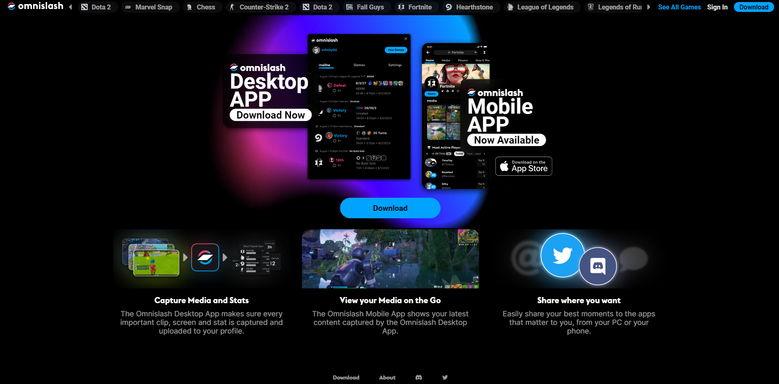
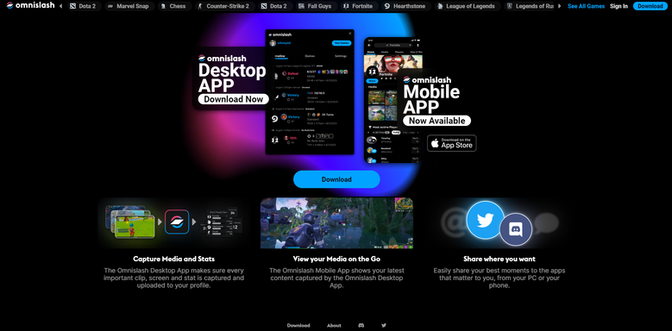
Added dark/light mode, added pinia to save persisted state of darkmode.

diff --git a/pages/index.vue b/pages/index.vue
@@ -1,38 +1,41 @@
 <template>
-  <Header @scrollToSection="scrollToSection" />
+  <div :class="{'dark': darkMode}">
+    <div class="bg-dim-100 text-primary dark:bg-dim-950 dark:text-darkPrimary transition-main">
+      <Header @scrollToSection="scrollToSection" />
 
-  <Head>
-    <Title>Dev - Solomon Padilla</Title>
-    <Meta name="viewport" content="width=device-width, initial-scale=1, shrink-to-fit=no" />
-    <Meta name="description" content="Phoenix-Based Full Stack Web Developer." />
-    <Meta name="keywords" content="Phoenix, Scottsdale, Peoria, Glendale, Full Stack Developer, Front-End Web Developer, Back-End Developer, Solomon Padilla, Django, Python, JavaScript, HTML5, HTML, CSS3, CSS, MySQL, Vue, VueJS, TailWind, Nuxt, NuxtJS" />
-    <link rel="icon" href="/favicon.ico" type="image/x-icon" />
-  </Head>
+      <Head>
+        <Title>Dev - Solomon Padilla</Title>
+        <Meta name="viewport" content="width=device-width, initial-scale=1, shrink-to-fit=no" />
+        <Meta name="description" content="Phoenix-Based Full Stack Web Developer." />
+        <Meta name="keywords" content="Phoenix, Scottsdale, Peoria, Glendale, Full Stack Developer, Front-End Web Developer, Back-End Developer, Solomon Padilla, Django, Python, JavaScript, HTML5, HTML, CSS3, CSS, MySQL, Vue, VueJS, TailWind, Nuxt, NuxtJS" />
+        <link rel="icon" href="/favicon.ico" type="image/x-icon" />
+      </Head>
 
-  <main>
-    <section>
-      <LazySectionHome />
-    </section>
-    <section>
-      <LazySectionMccStats v-if="loadComponents" />
-    </section>
-    <section>
-      <LazySectionOmnislash v-if="loadComponents" />
-    </section>
-    <section>
-      <LazySectionContact v-if="loadComponents" />
-    </section>
+      <main>
+        <section>
+          <LazySectionHome />
+        </section>
+        <section>
+          <LazySectionMccStats v-if="loadComponents" />
+        </section>
+        <section>
+          <LazySectionOmnislash v-if="loadComponents" />
+        </section>
+        <section>
+          <LazySectionContact v-if="loadComponents" />
+        </section>
 
-    <div class="fixed right-0 bottom-20 rotate-[-90deg] select-none text-dim-400 transition-all duration-150 ease-out hover:text-dim-200 max-sm:right-[-20px]">
-      <span v-if="activeSection < offsets.length - 1" class="p-1 cursor-pointer" @click="scrollToSection(activeSection + 1, true)">
-        <Icon name="grommet-icons:form-previous" /> Scroll Down
-      </span>
-      <span v-else class="p-1 cursor-pointer" @click="scrollToSection(0, true)">
-        Scroll To Top <Icon name="grommet-icons:form-next" />
-      </span>
+        <div class="fixed right-0 bottom-20 rotate-[-90deg] select-none transition-main text-dim-700 hover:text-dim-950 dark:text-dim-400 dark:hover:text-dim-200 max-sm:right-[-20px]">
+          <span v-if="activeSection < offsets.length - 1" class="p-1 cursor-pointer" @click="scrollToSection(activeSection + 1, true)">
+            <Icon name="grommet-icons:form-previous" /> Scroll Down
+          </span>
+          <span v-else class="p-1 cursor-pointer" @click="scrollToSection(0, true)">
+            Scroll To Top <Icon name="grommet-icons:form-next" />
+          </span>
+        </div>
+      </main>
     </div>
-  </main>
-
+  </div>
 </template>
 
 <style>
@@ -46,7 +49,8 @@ section {
 </style>
 
 <script setup>
-const darkMode = ref(true)
+const store = useStore()
+let darkMode = computed(() => store.darkMode)
 let inMove = false
 const moveDelay = 400
 let activeSection = ref(0)
@@ -75,6 +79,14 @@ onBeforeUnmount(() => {
   window.removeEventListener('touchstart', touchStart); // mobile devices
   window.removeEventListener('touchmove', touchMove); // mobile devices
 })
+
+
+ /**
+ * Toggles dark/light theme
+ */
+function toggleDarkMode() {
+  darkMode.value = !darkMode.value
+}
 
  /**
  * Calculates the absolute offsets of each section on the page and pushes it into the offsets array

diff --git a/components/Section/MccStats.vue b/components/Section/MccStats.vue
@@ -1,5 +1,5 @@
 <template>
-  <div class="relative font-raj overflow-hidden max-w-full">
+  <div class="relative font-raj overflow-hidden max-w-full text-darkPrimary">
     <div class="absolute z-10 w-full text-xs font-bold bg-[#070707] p-0.5">
       <nuxt-link to="https://www.mccstats.site/" target="_blank" rel="noopener noreferrer">MCC<span class="text-[#00ff66]">STATS</span></nuxt-link>
     </div>
@@ -8,28 +8,28 @@
       <p class="text-[9px] font-roboto mb-1.5">Stats & Leaderboards for Halo MCC</p>
 
       <div class="flex items-center bg-white text-[10px]">
-        <span class="text-[#a1a1a1] text-[9px] hover:text-[#6c6c6c] p-1.5 cursor-pointer transition-all duration-150 ease-out">
+        <span class="text-[#a1a1a1] text-[9px] hover:text-[#6c6c6c] p-1.5 cursor-pointer transition-main">
           <Icon name="fa-solid:search" />
         </span>
         <input v-model="mccStatsText" class="h-[26px] w-36 font-raj bg-transparent outline-none font-bold text-[#343434] placeholder-[#a1a1a1]" placeholder="Search" @keyup.enter="navigateToExternal('https://www.mccstats.site/profile/' + mccStatsText)">
 
-        <button class="bg-[#008400] text-white w-8 h-4 font-bold text-[8px] mr-1.5 transition-all duration-150 ease-out hover:brightness-110" @click="navigateToExternal('https://www.mccstats.site/profile/' + mccStatsText)">Enter</button>
+        <button class="bg-[#008400] text-white w-8 h-4 font-bold text-[8px] mr-1.5 transition-main hover:brightness-110" @click="navigateToExternal('https://www.mccstats.site/profile/' + mccStatsText)">Enter</button>
       </div>
 
       <div class="flex items-center">
-        <nuxt-link to="https://www.mccstats.site/leaderboards/most-50s" target="_blank" rel="noopener noreferrer" class="text-[#ffd700] p-1 transition-all duration-150 ease-out hover:brightness-125" aria-label="Mccstats Leaderboards">
+        <nuxt-link to="https://www.mccstats.site/leaderboards/most-50s" target="_blank" rel="noopener noreferrer" class="text-[#ffd700] p-1 transition-main hover:brightness-125" aria-label="Mccstats Leaderboards">
           <Icon name="fa-solid:trophy" />
         </nuxt-link>
 
-        <nuxt-link to="https://www.mccstats.site/donate" target="_blank" rel="noopener noreferrer" class="text-[#29df27] p-1 transition-all duration-150 ease-out hover:brightness-125" aria-label="Mccstats Donate Page">
+        <nuxt-link to="https://www.mccstats.site/donate" target="_blank" rel="noopener noreferrer" class="text-[#29df27] p-1 ttransition-main hover:brightness-125" aria-label="Mccstats Donate Page">
           <Icon name="fa-solid:dollar-sign" />
         </nuxt-link>
 
-        <nuxt-link to="https://discord.com/" target="_blank" rel="noopener noreferrer" class="text-[#7289da] p-1 transition-all duration-150 ease-out hover:brightness-125" aria-label="Mccstats Discord Link">
+        <nuxt-link to="https://discord.com/" target="_blank" rel="noopener noreferrer" class="text-[#7289da] p-1 transition-main hover:brightness-125" aria-label="Mccstats Discord Link">
           <Icon name="fa-brands:discord" />
         </nuxt-link>
 
-        <nuxt-link to="https://twitter.com/MccStats" target="_blank" rel="noopener noreferrer" class="text-[#1da1f2] p-1 transition-all duration-150 ease-out hover:brightness-125" aria-label="Mccstats Twitter Page">
+        <nuxt-link to="https://twitter.com/MccStats" target="_blank" rel="noopener noreferrer" class="text-[#1da1f2] p-1 transition-main hover:brightness-125" aria-label="Mccstats Twitter Page">
           <Icon name="fa-brands:twitter" />
         </nuxt-link>
       </div>

diff --git a/components/Header.vue b/components/Header.vue
@@ -1,25 +1,26 @@
 <template>
   <header class="fixed z-50 w-full flex items-center justify-between p-5 text-xl text-primary select-none">
     
-    <nuxt-link to="/" class="text-3xl text-dim-100 pt-0.5 pr-5 pb-2 pl-1 -rotate-6 tracking-tightest shadow-lg transition duration-500 ease-out" @click="scrollToSection(0, true)">
+    <nuxt-link to="/" class="text-3xl pt-0.5 pr-5 pb-2 pl-1 -rotate-6 tracking-tightest dark:text-dim-100" @click="scrollToSection(0, true)">
       <b>><span class="animate-blink">_</span></b>
     </nuxt-link>
-    
-    <ul class="flex">
-      <!-- <li @click="scrollToSection(1, true)">Work</li> -->
-      <li @click="scrollToSection(3, true)">Contact</li>
-    </ul>
+
+    <div class="relative w-[52px]">
+      <label class="absolute w-full h-[26px] cursor-pointer -top-3 left-[-10px]">
+        <input class="hidden peer" type="checkbox" name="Dark Mode" @change="toggleDarkMode" :checked="!darkMode">
+        <span class="slider absolute w-full h-full rounded-full bg-[#28292c] duration-300
+        before:content-[''] before:absolute before:top-[3px] before:left-[5px] before:duration-300 before:rounded-full before:bg-[#28292c] before:w-[20px] before:h-[20px] before:shadow-[inset_10px_-4px_0px_0px_rgba(216,219,224,1)]
+        peer-checked:bg-[#e1e1e1] peer-checked:before:bg-[#ffb364] peer-checked:before:shadow-none peer-checked:before:translate-x-6"></span>
+      </label>
+    </div>
   </header>
 </template>
 
-<style scoped>
-li {
-  @apply cursor-pointer transition duration-500 ease-out hover:text-dim-400 px-2.5;
-}
-</style>
-
 <script setup>
+const store = useStore()
 const emits = defineEmits(['scrollToSection'])
+let darkMode = computed(() => store.darkMode)
+const toggleDarkMode = store.toggleDarkMode
 
 function scrollToSection(id, force = false) {
   emits('scrollToSection', id, force)

diff --git a/tailwind.config.js b/tailwind.config.js
@@ -15,18 +15,19 @@ export default {
     },
     extend: {
       colors: {
-        primary: '#f8f8f8',
+        primary: "#0c0a09",
+        darkPrimary: "#f8f8f8",
         dim: {
-          50: "#fafafa",
-          100: "#f5f5f5",
-          200: "#e5e5e5",
-          300: "#d4d4d4",
-          400: "#a3a3a3",
-          500: "#737373",
-          600: "#525252",
-          700: "#404040",
-          800: "#262626",
-          900: "#171717",
+          50: "#fafaf9",
+          100: "#f5f5f4",
+          200: "#e7e5e4",
+          300: "#d6d3d1",
+          400: "#a8a29e",
+          500: "#78716c",
+          600: "#57534e",
+          700: "#44403c",
+          800: "#292524",
+          900: "#1c1917",
           950: "#0c0a09",
         },
       },
@@ -34,6 +35,9 @@ export default {
         sans: ['Karla', 'Arial', 'Helvetica', 'sans-serif', 'Georgia', 'serif'],
         raj: ['Rajdhani', 'Arial', 'Helvetica', 'sans-serif', 'Georgia', 'serif'],
         roboto: ['Roboto', 'Arial', 'Helvetica', 'sans-serif', 'Georgia', 'serif'],
+      },
+      transitionProperty: {
+        mainTransition: 'all 150ms ease-out'
       },
       animation: {
         glow: 'glow 1s ease-in-out infinite alternate',
@@ -56,11 +60,11 @@ export default {
           }
         },
         blink: {
-          '0%': {color: '#f8f8f8'},
-          '49%': {color: '#f8f8f8'},
+          '0%': {color: 'inherit'},
+          '49%': {color: 'inherit'},
           '60%': {color: 'transparent'},
-          '85%': {color: '#f8f8f8'},
-          '100%': {color: '#f8f8f8'}
+          '85%': {color: 'inherit'},
+          '100%': {color: 'inherit'}
         }
       }
     },

diff --git a/components/Section/Omnislash.vue b/components/Section/Omnislash.vue
@@ -1,13 +1,15 @@
 <template>
   <div class="relative font-raj">
     <nuxt-link to="https://omnislash.com/app" target="_blank" rel="noopener noreferrer">
-      <img class="max-h-96" height="384" width="779" src="/omnislash/omnislash.png" alt="Omnislash" />
+      <img height="331" width="664" src="/omnislash/omnislash.png" alt="Omnislash" />
     </nuxt-link>
   </div>
 
   <h2 class="text-[32px] my-4 font-sans font-bold">
     <nuxt-link class="flex items-center gap-1" to="https://omnislash.com/app" target="_blank" rel="noopener noreferrer">
-      <img height="19" width="20" src="/omnislash/logo.png" alt="Omnislash Logo" />
+      <div class="p-0.5 bg-black rounded">
+        <img height="19" width="20" src="/omnislash/logo.png" alt="Omnislash Logo" />
+      </div>
       <span>Omnislash</span>
     </nuxt-link>
   </h2>
@@ -18,6 +20,7 @@
     <strong>Frontend Built with:</strong> 
     <ul class="flex flex-wrap gap-2 text-center justify-center">
       <li><Icon name="devicon:vuejs" /> VueJs,</li>
+      <li><Icon name="vscode-icons:file-type-vueconfig" /> Vuex,</li>
       <li><Icon name="devicon:typescript" /> Typescript,</li>
       <li><Icon name="devicon:css3" /> SASS</li>
     </ul>

diff --git a/components/Section/Contact.vue b/components/Section/Contact.vue
@@ -3,7 +3,7 @@
     <Icon class="text-[200px] rotate-[-6deg]" name="fxemoji:backofenvelope" />
 
     <div>
-      <p class="w-[200px]">Unleash your digital vision. Let's collaborate and bring your ideas to life.</p>
+      <p class="w-[200px]">Unleash your digital vision.</p>
     </div>
   </div>
 
@@ -14,6 +14,7 @@
     <ul class="flex flex-wrap gap-2 text-center justify-center">
       <li><Icon name="devicon:vuejs" /> VueJs,</li>
       <li><Icon name="logos:nuxt-icon" /> Nuxt,</li>
+      <li><Icon name="logos:pinia" /> Pinia,</li>
       <li><Icon name="logos:javascript" /> Javascript,</li>
       <li><Icon name="devicon:tailwindcss" /> TailWind</li>
     </ul>

diff --git a/components/UI/Button.vue b/components/UI/Button.vue
@@ -1,9 +1,5 @@
 <template>
-  <button class="bg-[#060606] p-4 text-white transition-all ease duration-500 transform hover:scale-110">
+  <button class="p-4 transition-all ease duration-300 transform bg-white text-black dark:bg-[#060606] dark:text-white hover:scale-110">
     <slot />
   </button>
 </template>
-
-<script setup>
-
-</script>

diff --git a/stores/index.js b/stores/index.js
@@ -1,0 +1,13 @@
+import { defineStore } from 'pinia'
+
+export const useStore = defineStore('store', {
+  state: () => ({
+    darkMode: true,
+  }),
+  actions: {
+    toggleDarkMode() {
+      this.darkMode = !this.darkMode
+    },
+  },
+  persist: true,
+})

diff --git a/app.vue b/app.vue
@@ -1,11 +1,3 @@
 <template>
-  <div class="bg-dim-950 text-primary" :class="{'dark': darkMode}">
-    <div>
-      <router-view />
-    </div>
-  </div>
+  <router-view />
 </template>
-
-<script setup>
-const darkMode = ref(true)
-</script>

diff --git a/nuxt.config.ts b/nuxt.config.ts
@@ -8,6 +8,8 @@ export default defineNuxtConfig({
     'nuxt-icon',
     'nuxt-lazy-load',
     '@nuxtjs/robots',
+    '@pinia/nuxt',
+    '@pinia-plugin-persistedstate/nuxt',
   ],
   css: [
     "~/assets/css/tailwind.css"
